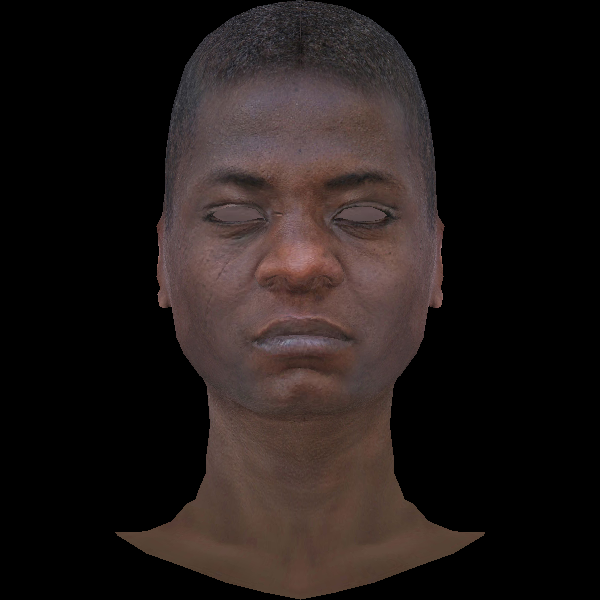
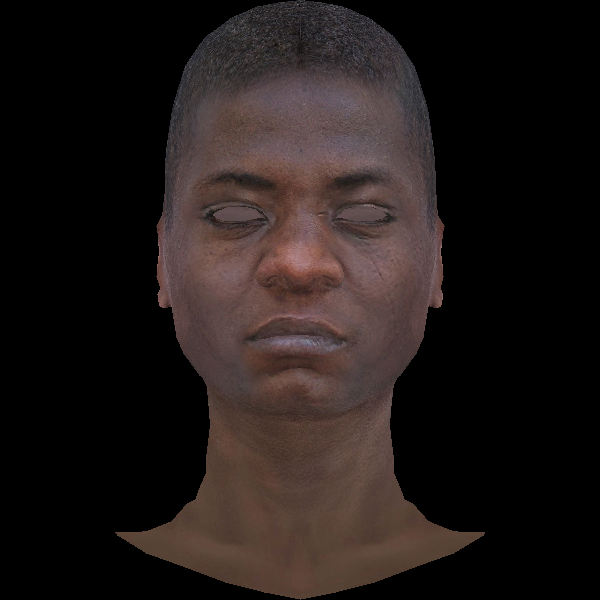
Update

diff --git a/main.cpp b/main.cpp
@@ -150,7 +150,7 @@ void triangle(Vec3f v_pts[3], Vec2f uv[3], TGAImage &image, TGAImage &texture)
             if (zbuffer[idx] < interpolated_z)
             {
                 zbuffer[idx] = interpolated_z;
-                TGAColor color = texture.get((1.0 - interpolated_uv.x) * texture.get_width(),
+                TGAColor color = texture.get((interpolated_uv.x) * texture.get_width(),
                                              (1.0 - interpolated_uv.y) * texture.get_height());
                 image.set(P.x, P.y, color);
             }
